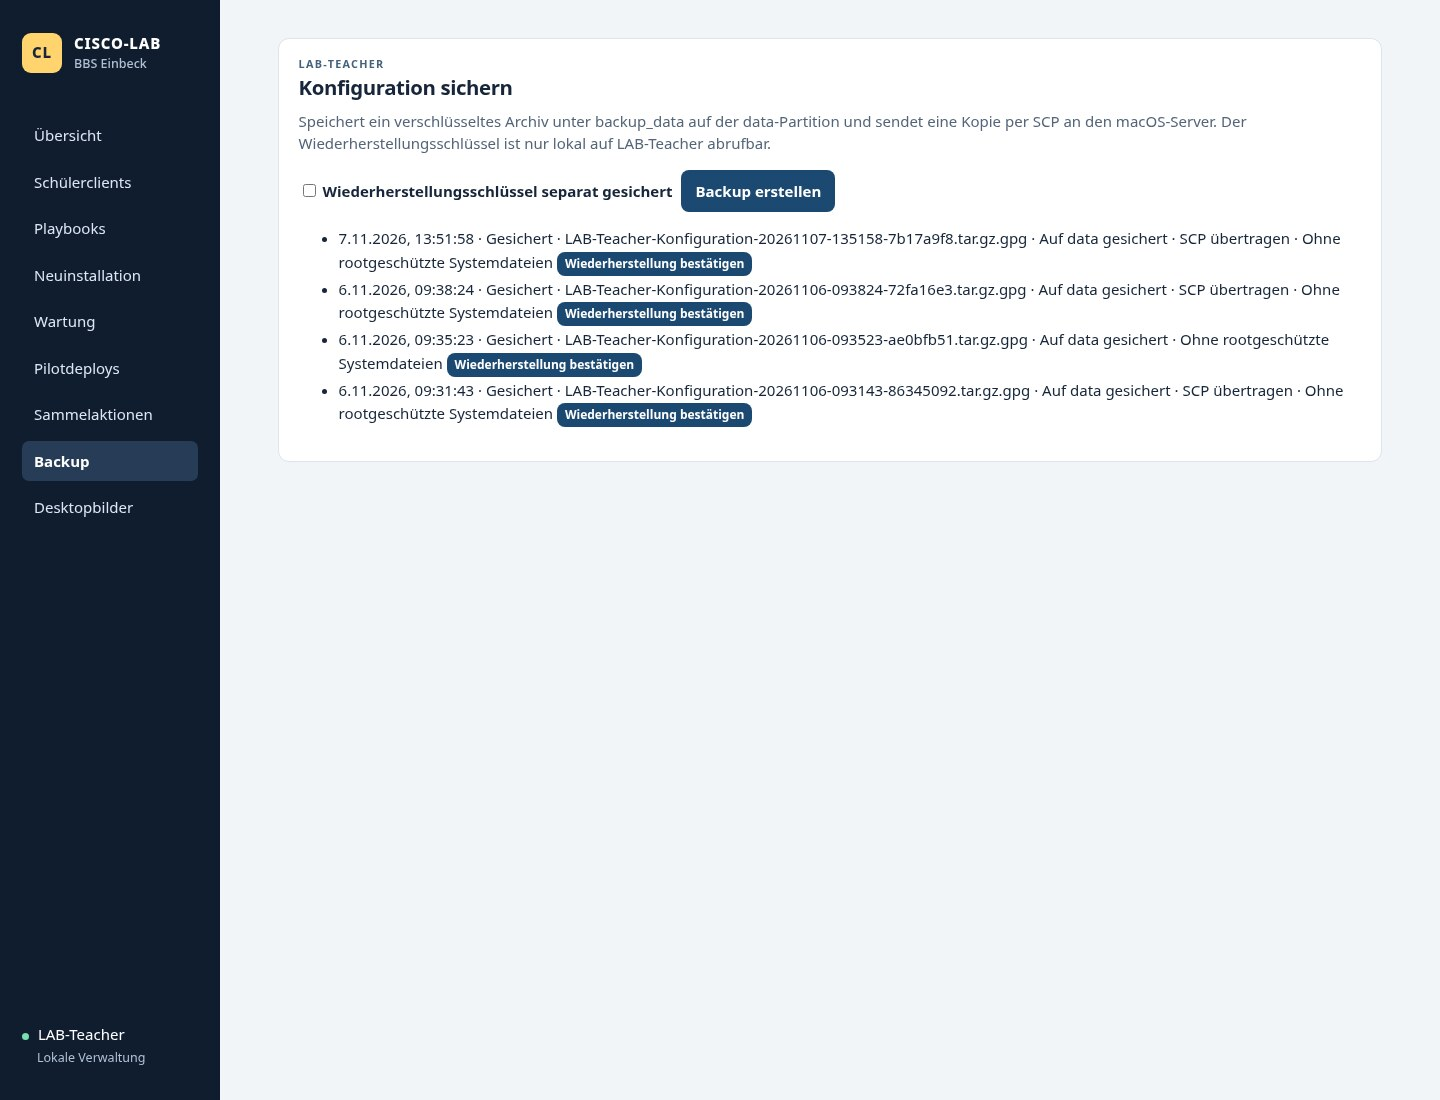
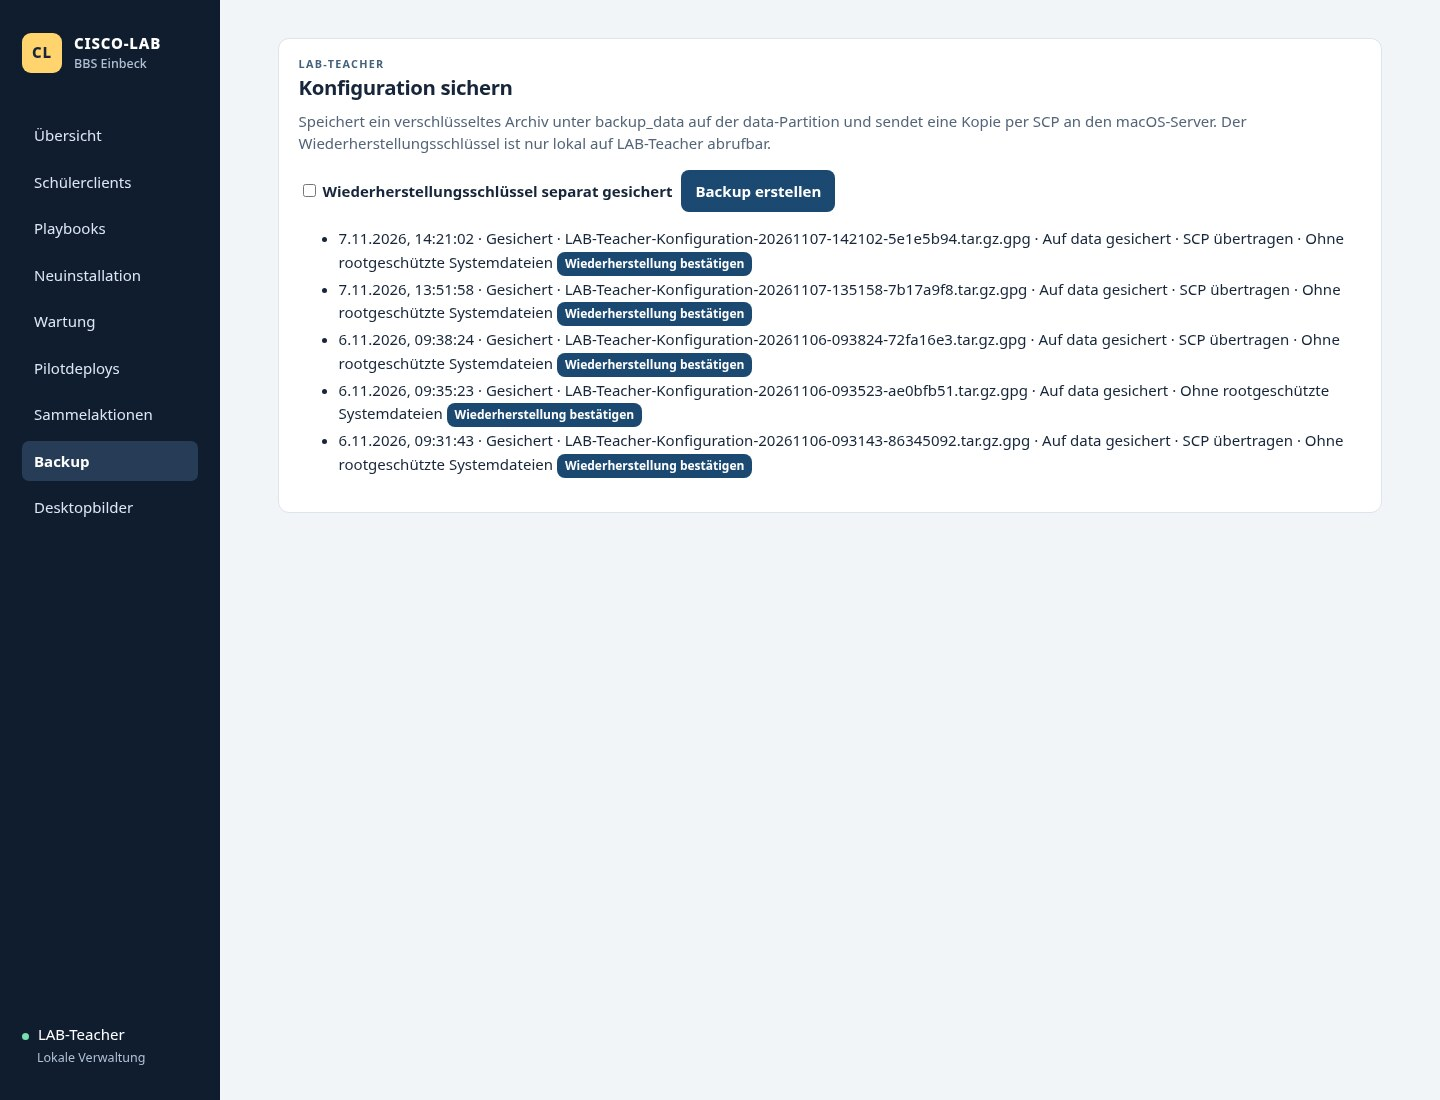
Remove the obsolete profile preview and record the latest restore test
Remove the unused profile inspection UI and API after the switch to progressive nonpersistent-image reinstalls. Refresh installation/backup screenshots and both guides with the verified 383-file configuration restore. Confirm both Pages language versions are live.

diff --git a/dashboard/catalog.js b/dashboard/catalog.js
@@ -254,7 +254,6 @@ async function loadFresh() {
     freshBusy = data.busy || data.runs.some(run => ['queued', 'running'].includes(run.status));
     freshHardware = data.hardware;
     setHostOptions(el('bootstrap-host'), freshHardware.map(item => item.host));
-    setHostOptions(el('profiles-host'), data.profile_hosts);
     renderFreshTargets(data);
     updateFreshButtons();
     el('bootstrap-status').textContent = freshHardware.length ? ''
@@ -304,30 +303,6 @@ el('bootstrap-form').addEventListener('submit', event => {
     el('bootstrap-sudo').value = '';
     await freshAction('/api/fresh/bootstrap', {host, fingerprint, ssh_password, sudo_password}, 'bootstrap-status');
   });
-});
-
-el('profiles-form').addEventListener('submit', async event => {
-  event.preventDefault();
-  const host = el('profiles-host').value;
-  const button = el('profiles-preview');
-  button.disabled = true;
-  el('profiles-result').replaceChildren();
-  el('profiles-status').textContent = 'Lese lokale Profilmetadaten auf ' + host + ' …';
-  try {
-    const data = await request('/api/profiles/preview', {host});
-    el('profiles-status').textContent = host + ' · ' + data.status + ' · ' + data.profiles.length + ' Verzeichnisse';
-    el('profiles-result').replaceChildren(...data.profiles.map(profile => {
-      const row = document.createElement('li');
-      row.textContent = [profile.directory,
-        profile.directory_mtime_days === null ? '' : 'Ordnerdatum vor ' + profile.directory_mtime_days + ' Tagen',
-        profile.protected_because].filter(Boolean).join(' · ');
-      return row;
-    }));
-  } catch (error) {
-    el('profiles-status').textContent = error.message;
-  } finally {
-    button.disabled = false;
-  }
 });
 
 async function loadMaintenance() {

diff --git a/dashboard/index.html b/dashboard/index.html
@@ -76,14 +76,6 @@
       <p id="fresh-status" role="status"></p>
       <ul id="fresh-runs"></ul>
       <pre id="fresh-output" class="console-output" hidden></pre>
-      <h3>Lokale IServ-Profilreste prüfen</h3>
-      <p class="muted">Die Vorschau liest lokale Verzeichnismetadaten. Das Ordnerdatum belegt keine letzte Nutzung. Eine Löschaktion gibt es hier nicht.</p>
-      <form id="profiles-form">
-        <label for="profiles-host">Client</label><select id="profiles-host" required></select>
-        <button class="button" id="profiles-preview" type="submit">Profilvorschau laden</button>
-      </form>
-      <p id="profiles-status" role="status"></p>
-      <ul id="profiles-result"></ul>
     </section>
     <section id="pilots" class="panel" data-page="/pilotdeploys" hidden>
       <div class="section-heading"><div><p class="eyebrow">Testclients</p><h2>Pilotdeploy starten</h2></div><span class="badge neutral">Nur LAB-08A und LAB-08B</span></div>

diff --git a/dashboard/provision.py b/dashboard/provision.py
@@ -130,7 +130,7 @@ class Provision:
                     pass
             recent = [run for run in records if run['status'] not in ACTIVE][:30]
             return dict(hosts=ready, hardware=self.bootstrap.targets(), runs=active + recent,
-                        profile_hosts=list(LAB_TARGETS), veyon=veyon_available(),
+                        veyon=veyon_available(),
                         busy=self.deployments.lock.locked())
 
     @staticmethod
@@ -343,17 +343,6 @@ class Provision:
         with path.open('rb') as file:
             file.seek(max(0, path.stat().st_size-65536))
             return file.read().decode(errors='replace')
-
-    def profile_preview(self, host):
-        if host not in LAB_TARGETS:
-            raise ValueError('Bitte einen LAB-Client wählen.')
-        script = (ROOT/'tasks/home-cleanup-preview.py').read_text()
-        command = ssh_command(host, self.deployments.known_hosts_b,
-                              ['sudo', '-n', '/usr/bin/python3', '-IB', '-c', script, host])
-        result = subprocess.run(command, text=True, capture_output=True, timeout=25)
-        if result.returncode:
-            raise ValueError('Lesende Vorschau fehlgeschlagen. SSH-Zugang und sudo prüfen.')
-        return json.loads(result.stdout)
 
     @staticmethod
     def maintenance_hosts():

diff --git a/dashboard/server.py b/dashboard/server.py
@@ -294,8 +294,7 @@ class Handler(BaseHTTPRequestHandler):
                     method = self.server.provision.retry if self.path.endswith('/retry') else self.server.provision.stop
                     run = method(**payload)
                     return self._json(202 if run else 409, run or {'error':'Ein Verwaltungsauftrag läuft.'})
-            if self.path == '/api/profiles/preview' and set(payload) == {'host'} and isinstance(payload['host'], str):
-                return self._json(200, self.server.provision.profile_preview(payload['host']))
+
             if self.path == '/api/maintenance/start' and set(payload) in ({'confirmed'}, {'host', 'confirmed'}):
                 if 'host' in payload and not isinstance(payload['host'], str):
                     raise ValueError('Ungültiger Wartungsclient.')

diff --git a/docs/dashboard.md b/docs/dashboard.md
@@ -128,7 +128,7 @@ Archiv und SHA-256-Datei per SCP auf das festgelegte macOS-Ziel übertragen.
 Die SCP-Passwortdatei und der Wiederherstellungsschlüssel sind ausgeschlossen.
 Der Schlüssel muss getrennt außerhalb von LAB-Teacher verwahrt werden.
 
-Die Sicherung vom 07.11. wurde isoliert entschlüsselt: 356 Dateien, passender
+Die Sicherung vom 07.11. wurde isoliert entschlüsselt: 383 Dateien, passender
 SSH-Schlüssel und Start des wiederhergestellten Dashboards mit HTTP 200.
 Das ist ein Konfigurations-Restore, noch kein vollständiger Ersatzrechner.
 Ältere Sicherungen vom 06.11. enthalten nicht den vollständigen Dashboard-Zustand.

diff --git a/docs/dashboard.en.md b/docs/dashboard.en.md
@@ -115,7 +115,7 @@ run history. Encrypted archives reside on `data/backup_data`; optional SCP sends
 the archive and SHA-256 file to the configured macOS host. The SCP password file
 and recovery key are excluded. Store the recovery key separately off the teacher PC.
 
-The 7 November archive was restored in isolation: 356 files, matching SSH key
+The 7 November archive was restored in isolation: 383 files, matching SSH key
 and a restored dashboard returning HTTP 200. This tests configuration recovery,
 not a complete replacement computer. Older 6 November backups do not include
 complete dashboard state.

diff --git a/README.md b/README.md
@@ -37,7 +37,7 @@ registriert. Die weitere Einführung erfolgt nach schrittweiser Neuinstallation
 mit nichtpersistentem tmpfs. Teacher-Aufwachen und seine eigene Wartung sind noch
 offen. Die Profil-Löschfunktion entfällt.
 
-Eine neue verschlüsselte Sicherung wurde isoliert wiederhergestellt: 356 Dateien,
+Eine neue verschlüsselte Sicherung wurde isoliert wiederhergestellt: 383 Dateien,
 passender SSH-Schlüssel und funktionsfähiger Dashboard-Start. Rootgeschützte
 Systemdateien benötigen noch die vorbereitete Admin-Einrichtung. Rotation:
 90 Tage plus letzte bestätigte funktionierende Sicherung.

diff --git a/README.en.md b/README.en.md
@@ -37,7 +37,7 @@ Further clients will follow their gradual reinstallation with nonpersistent
 tmpfs. Teacher-PC wake and its own maintenance remain open. Profile deletion
 has been dropped.
 
-A new encrypted backup was restored in isolation: 356 files, matching SSH key
+A new encrypted backup was restored in isolation: 383 files, matching SSH key
 and a working dashboard. Root-only system configuration still requires the
 prepared administrator setup. Retention: 90 days plus the latest confirmed
 working backup.
